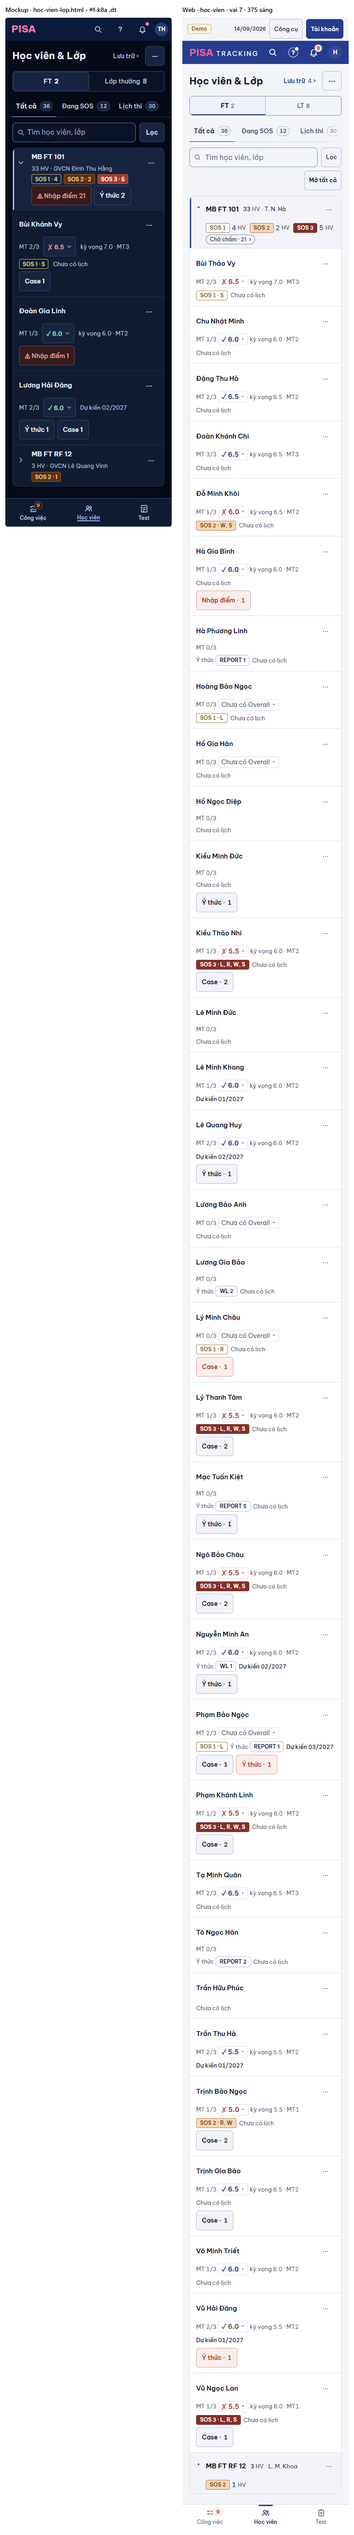
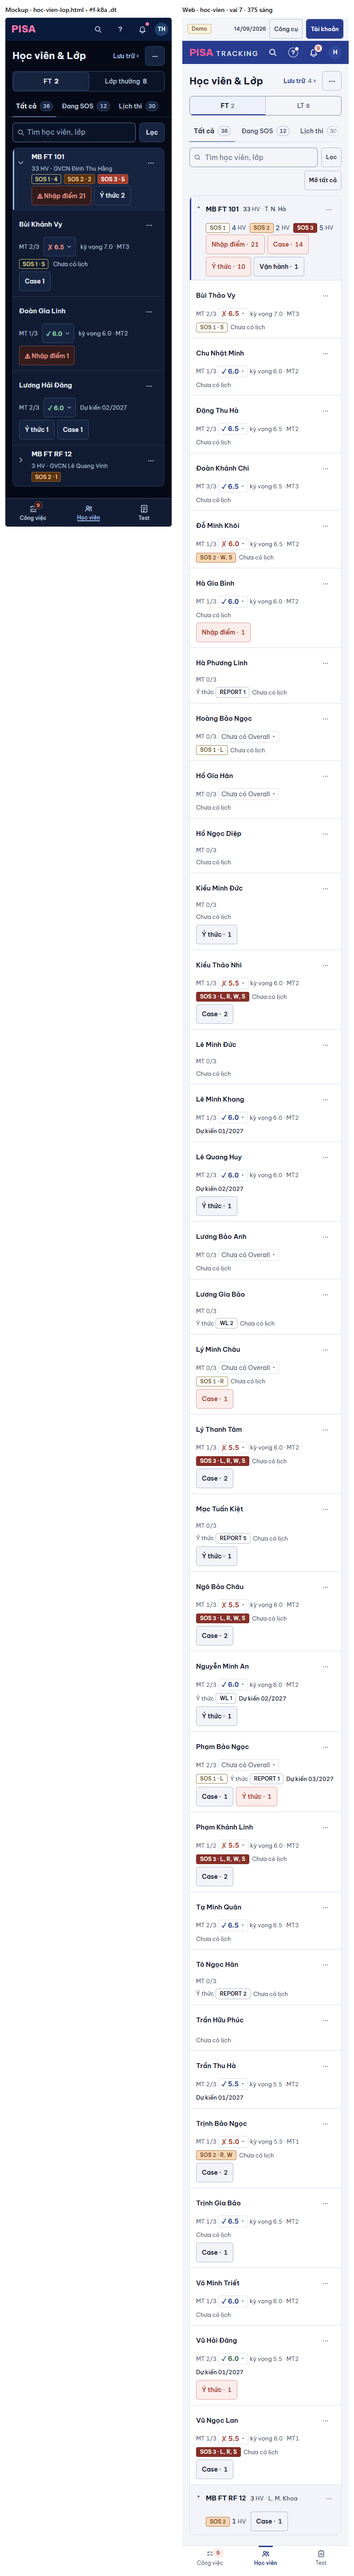
GD-13a (PTA rà #1685): chip Việc cần làm của lớp ở hàng lớp, ô hẹp không cắt chữ
- Hàng lớp: chip việc CỦA TÔI ở lớp (chipViecLop + NutChipViec như hồ sơ lớp GD-6), Nhập điểm mở panel lớp tại trang; ẩn Chờ chấm trùng
- Lộ trình: chưa có Target chỉ "Target —"; Ý thức: chip chỉ bậc (mốc Meeting ở hộp mở)
- Chụp lại k1, k8a, k2

diff --git a/web/src/modules/students/StudentsPage.tsx b/web/src/modules/students/StudentsPage.tsx
@@ -12,6 +12,7 @@ import { MenuDong, type MucMenu } from '../../ui/MenuDong.tsx';
 import { CHIP_SOS, ChipBadgeLop, Nhan, lopSos } from '../../ui/Nhan.tsx';
 import { BoChonThoiGian } from '../phanTich/BoChonThoiGian.tsx';
 import { PanelViec } from '../congViec/PanelViecLuoi.tsx';
+import { NutChipViec, chipViecLop, type ChipViec } from '../congViec/LopCuaToi.tsx';
 import { lamTaiCho } from '../congViec/lamTaiCho.ts';
 import { PanelNhapDiemLop } from '../cham/PanelNhapDiemLop.tsx';
 import { TenGiaoVien } from '../classes/TenGiaoVien.tsx';
@@ -261,6 +262,12 @@ function TrangTheoLop({ vai }: { vai: VaiXemHocVien | null }) {
     return em;
   }, [viec]);
 
+  /* PTA rà #1685 (⑥ K1, K8a): chip "Việc cần làm" của LỚP ở hàng lớp — việc CỦA TÔI (lá `mine`, cả việc cấp lớp như Nhập điểm), cùng `chipViecLop`
+     của Công việc / hồ sơ lớp GD-6. Dữ liệu `/my-work` đã nạp, không request. */
+  const viecToi = useMemo(() => (work.data?.dong ?? []).flatMap((x) => (x.con?.length ? x.con : [x])).filter((x) => x.mine), [work.data]);
+  const [nhapDiemLop, setNhapDiemLop] = useState<{ id: number; code: string } | null>(null);
+  const bamChipLop = (c: ChipViec, l: { id: number; code: string }) => (c.tab === 'cham-diem' ? setNhapDiemLop(l) : moViec(c.dau, c.ds));
+
   /* Chương trình (Fast Track · Lớp thường) chỉ có nghĩa khi phạm vi có cả hai loại lớp. */
   const soLopTheoKhung = { ft: 0, thuong: 0 };
   for (const c of data?.rows ?? []) soLopTheoKhung[khungCua(c.scoringMode)] += 1;
@@ -429,7 +436,7 @@ function TrangTheoLop({ vai }: { vai: VaiXemHocVien | null }) {
     const l = lop.get(g.id);
     return {
       id: g.id, hv: g.hv, mo: moSet.has(g.id), onMo: () => doiMo(g.id), nhan: l?.code ?? t('Chưa xếp lớp'),
-      dau: <DauLop lop={l} hv={g.hv} vai={vai} dangLoc={dangLoc} cuaToi={pv?.dangDung === 'cua-toi'}
+      dau: <DauLop lop={l} hv={g.hv} vai={vai} dangLoc={dangLoc} cuaToi={pv?.dangDung === 'cua-toi'} chip={l ? chipViecLop(viecToi, l.id) : []} onChip={bamChipLop}
         onSos={(m) => setParam({ view: 'sos', classId: String(g.id), muc: String(m), mo: null })}
         dsLop={{ loai: 'lop', nhan: t('Lớp'), ids: (data?.rows ?? []).map((c) => c.id) }} onThemHocVien={(x) => setThem(x)} />,
     };
@@ -647,6 +654,7 @@ function TrangTheoLop({ vai }: { vai: VaiXemHocVien | null }) {
           onTiep={viecMo.i + 1 < viecMo.ds.length ? () => setViecMo({ ...viecMo, i: viecMo.i + 1 }) : null}
           tenTiep={viecMo.ds[viecMo.i + 1]?.studentId != null ? viecMo.ds[viecMo.i + 1].studentName : null} />
       )}
+      {nhapDiemLop && <PanelNhapDiemLop classId={nhapDiemLop.id} classCode={nhapDiemLop.code} onDong={() => { setNhapDiemLop(null); lamMoi(); }} />}
       {panelEm && (
         <PanelMotEm key={panelEm.id} studentId={panelEm.id} caseMo={panelEm.caseMo} viecTrang={viecHien.get(panelEm.id)?.map((x) => x.it)} onClose={() => setPanelEm(null)}
           onDoi={lamMoi} />
@@ -748,9 +756,10 @@ function nhoKhung(k: 'ft' | 'thuong') { try { sessionStorage.setItem(KHOA_KHUNG,
 /** "Nguyễn Hoàng Dũng" → "N. H. Dũng" (hàng lớp 375). */
 const tenNgan = (ten: string) => { const w = ten.trim().split(/\s+/); return w.length < 2 ? ten : `${w.slice(0, -1).map((x) => `${x[0]}.`).join(' ')} ${w[w.length - 1]}`; };
 
-function DauLop({ lop, hv, vai, dsLop, onThemHocVien, onSos, dangLoc, cuaToi }: {
+function DauLop({ lop, hv, vai, dsLop, onThemHocVien, onSos, dangLoc, cuaToi, chip, onChip }: {
   lop: (LopGon & Partial<LopTrenTrang>) | undefined; hv: HvGon[]; vai: VaiXemHocVien | null;
   dsLop: NguCanhDs; onThemHocVien: (lop: { id: number; code: string }) => void; onSos: (muc: number) => void; dangLoc: boolean; cuaToi: boolean;
+  chip: ChipViec[]; onChip: (c: ChipViec, lop: { id: number; code: string }) => void;
 }) {
   const day = lop && 'needScores' in lop ? (lop as LopTrenTrang) : null;
   const sos = [1, 2, 3].map((m) => new Set(hv.filter((h) => h.hang?.hoTro.sos === m).map((h) => h.id)).size);
@@ -769,7 +778,11 @@ function DauLop({ lop, hv, vai, dsLop, onThemHocVien, onSos, dangLoc, cuaToi }: 
       </>}</span>
       <span className="hl-o">{day && day.scoringMode !== 'ratio' && <OSosLop sos={sos} onSos={onSos} />}</span>
       {/* Quá hạn đã có chip "Có việc quá hạn" của dải lọc. "n bài chờ chấm" → Lịch Test, "chờ duyệt" → Công việc, lộ trình → Hồ sơ lớp. */}
-      <span className="hl-o">{day && <NhanLop lop={day} vai={vai} soViecQuaHan={0} bo={(k) => k === 'qua-han'} />}</span>
+      {/* ⑥ K1: badge tình trạng (không phải việc của tôi, vd QL "Chờ chấm · 4") rồi chip việc CỦA TÔI; có chip Nhập điểm thì bỏ "Chờ chấm" (cùng số, khỏi lặp). */}
+      <span className="hl-o flex flex-wrap items-center gap-1.5">
+        {day && <NhanLop lop={day} vai={vai} soViecQuaHan={0} bo={(k) => k === 'qua-han' || (k === 'cham' && chip.some((c) => c.tab === 'cham-diem'))} />}
+        {lop && chip.map((c) => <NutChipViec key={c.tab} c={c} ngu={lop.code} doiTrang={false} onBam={() => onChip(c, { id: lop.id, code: lop.code })} />)}
+      </span>
       <span className="hl-o hl-nut">{day && <MenuLop lop={day} dsLop={dsLop} onThemHocVien={() => onThemHocVien({ id: day.id, code: day.code })} />}</span>
     </>
   );

diff --git a/web/src/modules/students/DanhSachHvLop.tsx b/web/src/modules/students/DanhSachHvLop.tsx
@@ -238,12 +238,14 @@ function OYThuc({ h, g, lop, onDoi }: { h: HvGon; g: HangHv; lop: LopGon | undef
   const y = g.yThucHop;
   if (!g.yThuc) return trong;
   /* GD-4d (lời 35, ⑤ H5): chip ở cột bảng = viết tắt "WL 1" (nơi chật); hộp mở ra = viết đủ "WARNING LETTER 1". */
-  if (!y) return <Nhan tone="doing">{bacNgan(dich(g.yThuc)).toUpperCase()}</Nhan>;
+  /* PTA rà #1685: ô hẹp chỉ chip BẬC ("REPORT 5"), không "+ MEETING …" bị cắt "…" — mốc đủ ở hộp mở ("Mốc"). */
+  const chip = bacNgan(dich(g.yThuc)).toUpperCase().split(' + ')[0];
+  if (!y) return <Nhan tone="doing">{chip}</Nhan>;
   const cl = y.canLam;
   const tieu = t('Ý thức · {ten}', { ten: h.ten });
   return (
     <>
-      <HopNho nutLop="chip-bac" nhan={tieu} rong nut={bacNgan(dich(g.yThuc)).toUpperCase()}>
+      <HopNho nutLop="chip-bac" nhan={tieu} rong nut={chip}>
         <b className="block text-[14px]">{tieu}</b>
         <dl className="hop-dl">
           <dt>{t('Cần làm')}</dt>
@@ -343,7 +345,7 @@ export function BangHvGon({ nhom, lop, viec, nguCanh, onMoViec, onDoi, vai, tim,
         ? <span className="block"><b className="block font-medium tabular-nums text-slate-100" aria-label={g.loTrinh.soMt ? `${g.loTrinh.khacLop ? `${t('Lộ trình')} ${maLoTrinhNgan(g.loTrinh.khacLop)} · ` : ''}${t('MT đã xong / đã tạo')}: ${g.loTrinh.mt}/${g.loTrinh.soMt}` : undefined}>
             {/* #9: em khác lộ trình lớp (RF trong lớp LT1…) — mã lộ trình trước "MT x/y". */}
             {g.loTrinh.khacLop && `${maLoTrinhNgan(g.loTrinh.khacLop)} · `}{g.loTrinh.soMt ? `MT ${g.loTrinh.mt}/${g.loTrinh.soMt}` : '—'}</b>
-            <span className="dong2">Target <TargetText band={g.loTrinh.target} kck={g.loTrinh.kck} /></span></span>
+            <span className="dong2">Target <TargetText band={g.loTrinh.target} kck={g.loTrinh.target != null && g.loTrinh.kck} /></span></span>
         : <span className="block truncate text-xs text-faint">{lop.get(h.classId)?.programmeName ? dich(lop.get(h.classId)!.programmeName!) : '—'}</span>;
       case 'mt': return g ? <OMtGan g={g} mo={dai.co(k)} onMo={() => dai.doi(k)} /> : trong;
       case 'ho': return g ? <OHoTro h={g.hoTro} /> : trong;

diff --git a/docs/anh/gd13a-hv-lop/khop-khac.md b/docs/anh/gd13a-hv-lop/khop-khac.md
@@ -20,7 +20,7 @@ Nguồn: `12-plan-giao-dien-dot-3.md` dòng GD-13a · mockup `thiet-ke/v21/hoc-v
 | 11 | K1 | Một tên cột **Việc cần làm**: nút-chip "{loại} · {số}" mỗi loại, chỉ việc của người xem, không việc = ô trống | `OViecCan` = `chipViecEm` + `NutChipViec` (chip chuẩn GD-4b, dùng chung Công việc / hồ sơ lớp) | cap-k1 | KHỚP |
 | 12 | K3 | Đang SOS cột cuối "Việc cần làm" (thay "Việc tiếp") | cùng `OViecCan` | cap-k3 | KHỚP |
 | 13 | K1 | Bấm chip = panel việc tại trang, "Việc tiếp" đi hết loại | `PanelViec` + `onTiep` theo `ds` của chip; Case → panel một em (như cũ) | web-k1-panel-viec | KHỚP |
-| 14 | K1 | Đầu lớp: SOS + chip việc | `ChipBadgeLop` "Chờ chấm · 21 ›" của GD-6 (PTA: dùng lại, không dựng bản thứ hai) | cap-k1 | KHỚP (xem KHÁC 1) |
+| 14 | K1, K8a | Đầu lớp: SOS + **chip "Việc cần làm" của lớp** (việc CỦA TÔI ở lớp, loại + số, bấm làm tại trang); số không phải việc của tôi = thẻ đếm | `chipViecLop` + `NutChipViec` (cùng hồ sơ lớp GD-6) từ `/my-work` đã nạp; Nhập điểm → panel nhập điểm lớp tại trang, loại khác → panel việc ("Việc tiếp" theo loại); có chip Nhập điểm thì ẩn badge "Chờ chấm" trùng số; QL giữ `ChipBadgeLop` "Chờ chấm · n ›" | cap-k1, cap-k8a-gv, web-k1-nhap-diem-lop | KHỚP (PTA rà #1685 ý 1, 3) |
 | 15 | K1 | Dải 5 môn: MT · Hỗ trợ · **Ý thức** · "Việc cần làm · n" | thêm khối Ý thức (bậc viết đủ / "Chưa có vi phạm"); đổi tên khối việc | cap-k1 | KHỚP |
 | 16 | K1 | ⋯ em: nhóm **"+ Task"** (Case · Vi phạm / Nhắc nhở) rồi vạch, Nhập điểm · Xác nhận xử lý · Sửa thông tin · Đề xuất chuyển lớp | `useThaoTacDongHocVien.mucCua`: tiêu đề nhóm + tên như nút "+ Task" (cũng áp ở ⋯ dòng hồ sơ lớp — cùng thành phần) | web-k1-menu | KHỚP (xem KHÁC 2) |
 | 17 | K1 | Ô Lịch thi là chữ ("Chưa có lịch" dim · "Dự kiến 01/2027") | `.bang-hv` bỏ viên viền cho chưa có / dự kiến; lịch đã chốt / đã thi giữ chip | cap-k1 | KHỚP |
@@ -33,7 +33,8 @@ Nguồn: `12-plan-giao-dien-dot-3.md` dòng GD-13a · mockup `thiet-ke/v21/hoc-v
 
 ## 2. KHÁC (có lý do)
 
-1. **Đầu lớp**: mockup vẽ việc của người xem "Nhập điểm 21" và (QL) thẻ đếm "4 bài chờ chấm" không bấm; web giữ `ChipBadgeLop` "Chờ chấm · n ›" của GD-6 (PTA: dùng lại, không dựng bản thứ hai) — bấm sang Lịch Test như cũ.
+1. **Đầu lớp — QL**: mockup vẽ thẻ đếm "4 bài chờ chấm" không bấm; web giữ `ChipBadgeLop` "Chờ chấm · n ›" (GD-6) bấm sang Lịch Test — lối vào sẵn có, không bớt thao tác.
+8. **Ô hẹp không "…"** (PTA rà #1685 ý 2): Lộ trình em chưa có Target ghi "Target —" (không kèm KCK); ô Ý thức chỉ chip bậc ("REPORT 5"), mốc "+ MEETING …" ở hộp mở (dòng Mốc).
 2. **⋯ em — "Tình hình học tập"**: mockup có mục thứ ba trong "+ Task"; ⋯ dòng chưa có hộp Tình hình cho một em (hộp neo ở nút "+ Task" đầu trang / hồ sơ). Không thêm thao tác mới trong PR này — đã có ở "+ Task" trang đầu, hồ sơ lớp, hồ sơ HV. → backlog.
 3. **Ô Xem**: mockup ghi phụ "22 lớp · 214 HV" từng chi nhánh — web không có số theo chi nhánh trong dữ liệu đã nạp; thêm sẽ cần câu đọc mới (Turso) → không vẽ.
 4. **V22**: mockup vẽ "⚠ Nhập điểm 21", "⚠ Case 2" — web chỉ màu đỏ (luật V22, không ⚠).
